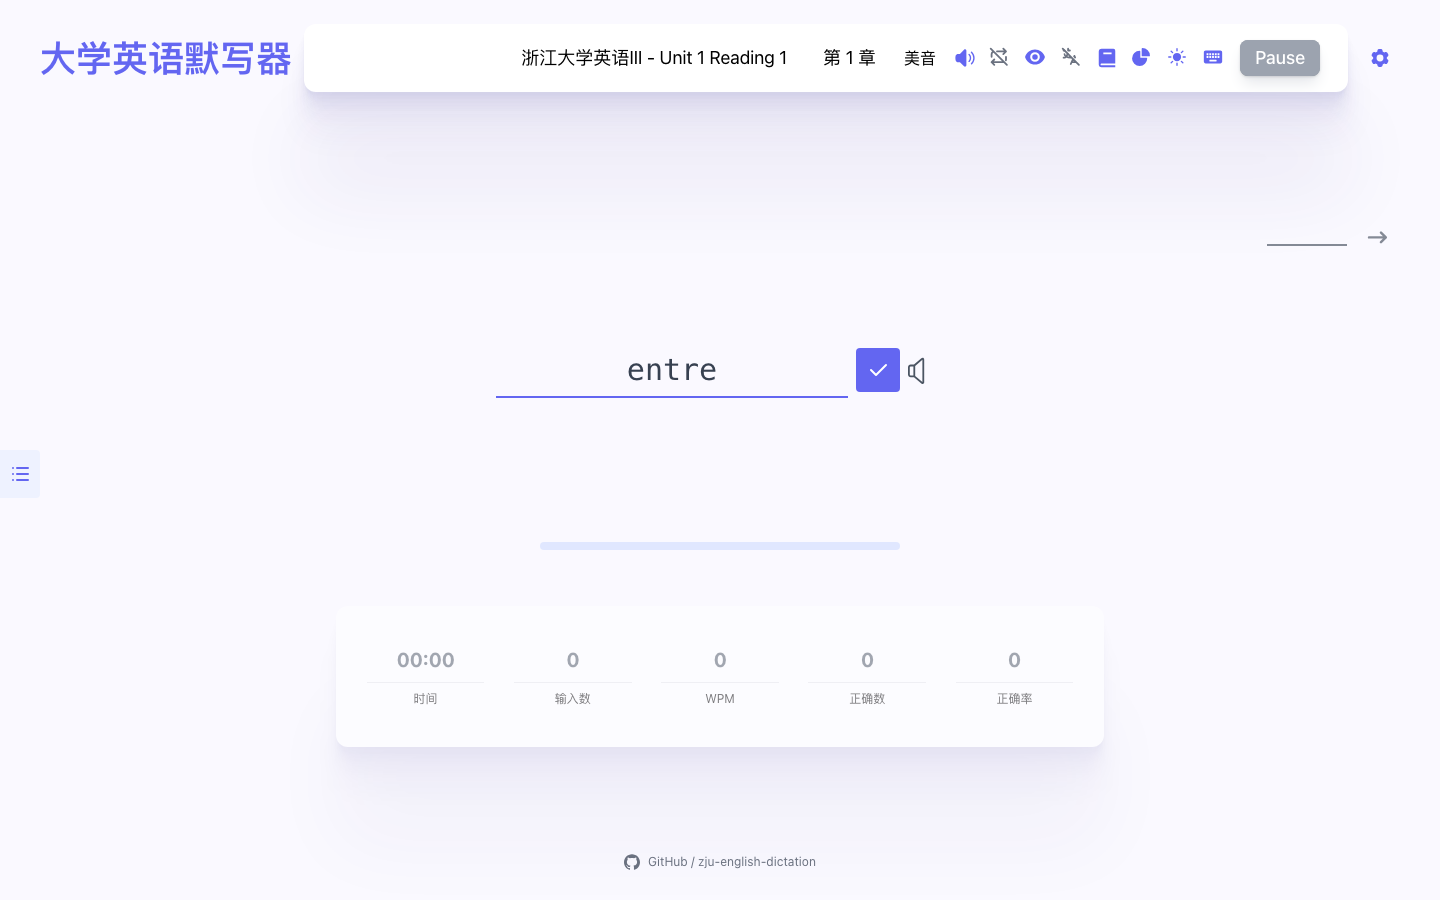
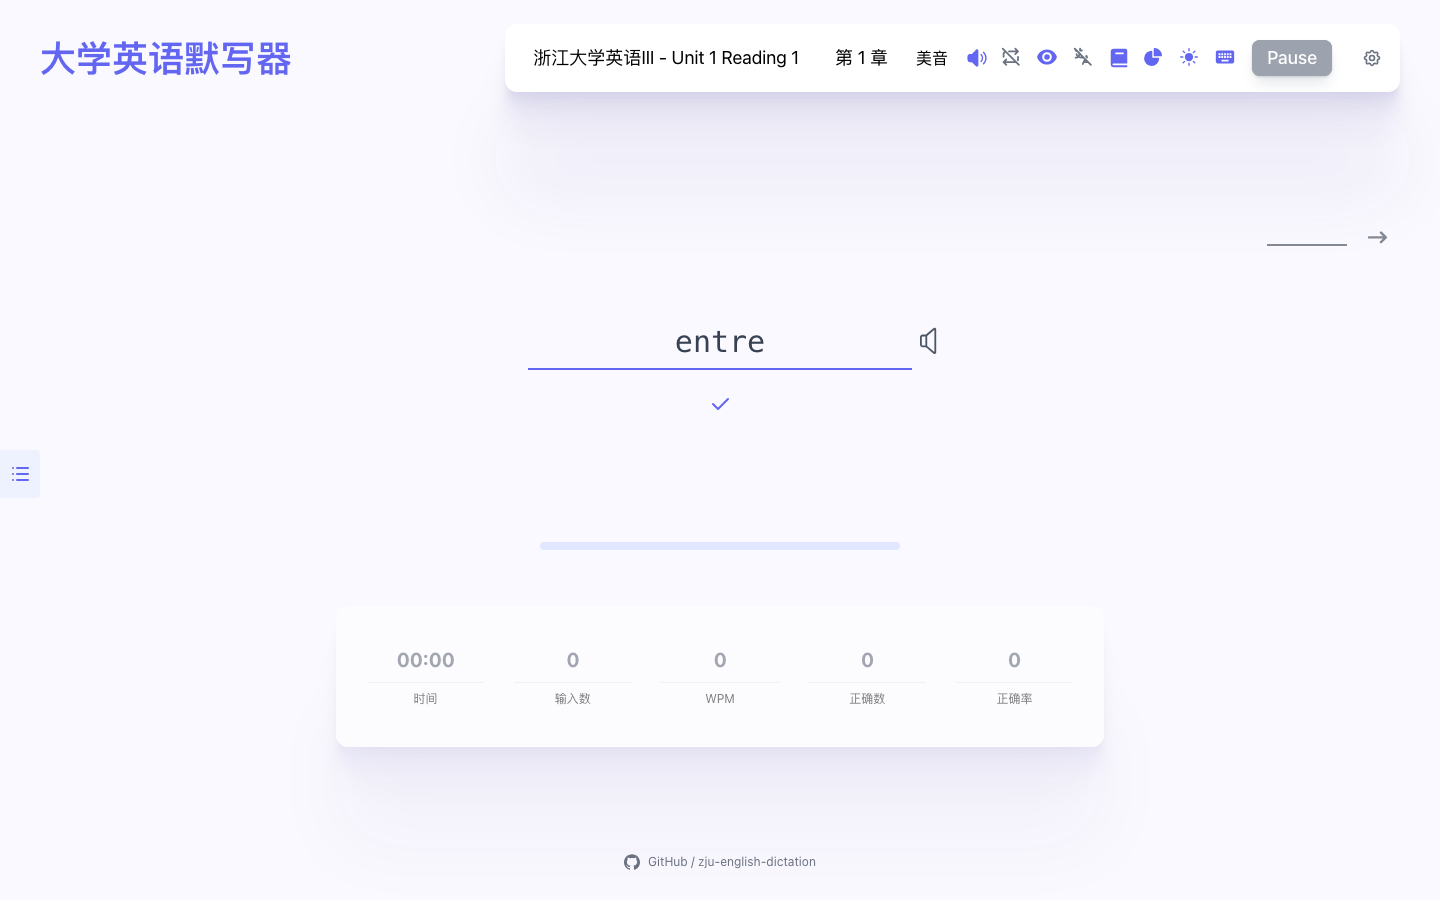
fix: unify inline dictation fields and center answer line

diff --git a/src/pages/Typing/components/WordPanel/components/WholeWordInput.tsx b/src/pages/Typing/components/WordPanel/components/WholeWordInput.tsx
@@ -1,5 +1,9 @@
+import style from './Word/index.module.css'
 import { TypingContext, TypingStateActionType } from '@/pages/Typing/store'
+import { fontSizeConfigAtom } from '@/store'
 import classNames from 'classnames'
+import { useAtomValue } from 'jotai'
+import type { CSSProperties, ReactNode } from 'react'
 import { useContext, useEffect, useRef } from 'react'
 import IconCheck from '~icons/tabler/check'
 
@@ -9,7 +13,8 @@ export default function WholeWordInput({
   onSubmit,
   isFinished,
   hasWrong,
-  inline = false,
+  prompt,
+  pronunciation,
   revealedAnswer,
 }: {
   value: string
@@ -17,17 +22,21 @@ export default function WholeWordInput({
   onSubmit: () => void
   isFinished: boolean
   hasWrong: boolean
-  inline?: boolean
+  prompt?: string
+  pronunciation?: ReactNode
   revealedAnswer?: string
 }) {
   // eslint-disable-next-line @typescript-eslint/no-non-null-assertion
   const { state, dispatch } = useContext(TypingContext)!
-  const inputRef = useRef<HTMLInputElement>(null)
+  const inputRef = useRef<HTMLInputElement | HTMLTextAreaElement | null>(null)
   const isComposing = useRef(false)
+  const fontSizeConfig = useAtomValue(fontSizeConfigAtom)
+  const isLengthHidden = prompt === undefined
+  const AnswerField = isLengthHidden ? 'input' : 'textarea'
 
   useEffect(() => {
     inputRef.current?.setAttribute('enterkeyhint', 'done')
-  }, [])
+  }, [isLengthHidden])
 
   useEffect(() => {
     if (!state.isTyping) inputRef.current?.blur()
@@ -35,17 +44,34 @@ export default function WholeWordInput({
 
   return (
     <form
-      className={inline ? 'relative w-full min-w-0' : 'mx-auto mt-4 w-full max-w-sm'}
+      className="relative w-full min-w-0"
       onSubmit={(event) => {
         event.preventDefault()
         if (!isComposing.current) onSubmit()
       }}
     >
-      <div className="flex items-center gap-2">
-        <div aria-label={inline ? '单词长度已隐藏' : undefined} className={classNames('relative min-w-0 flex-1', inline && 'min-h-[56px]')}>
-          <input
-            type="text"
-            ref={inputRef}
+      <div
+        className={classNames('relative mx-auto max-w-full font-mono', isLengthHidden ? 'w-full max-w-sm' : style.letter)}
+        style={
+          isLengthHidden
+            ? undefined
+            : ({
+                width: `calc(${Math.max(prompt.length, 1)}ch + 8px)`,
+                '--word-font-size': `${fontSizeConfig.foreignFont}px`,
+              } as CSSProperties)
+        }
+      >
+        <div
+          aria-label={isLengthHidden ? '单词长度已隐藏' : '字母格输入区'}
+          className="relative min-h-[56px]"
+          style={isLengthHidden ? undefined : { minHeight: 'max(56px, calc(1.5em + 16px))' }}
+        >
+          <AnswerField
+            type={isLengthHidden ? 'text' : undefined}
+            rows={isLengthHidden ? undefined : 1}
+            ref={(element: HTMLInputElement | HTMLTextAreaElement | null) => {
+              inputRef.current = element
+            }}
             id="typing-mobile-input"
             value={value}
             onChange={(event) => onChange(event.target.value.replace(/[\r\n]/g, ''))}
@@ -71,13 +97,12 @@ export default function WholeWordInput({
             autoCorrect="off"
             autoComplete="off"
             spellCheck={false}
-            placeholder={inline ? undefined : '输入英文'}
             style={revealedAnswer !== undefined ? { color: 'transparent', caretColor: 'transparent' } : undefined}
             className={classNames(
-              'z-20 block w-full min-w-0 outline-none',
-              inline
-                ? 'absolute inset-0 h-full rounded-none border-0 border-b-2 border-gray-400 bg-transparent px-1 py-2 text-center font-mono text-2xl shadow-none focus:border-indigo-500 focus:ring-0 dark:border-gray-500 sm:text-3xl'
-                : 'relative h-12 rounded-lg border border-gray-300 bg-white px-3 py-3 text-base leading-6 focus:border-indigo-500 focus:ring-2 focus:ring-indigo-200 dark:border-gray-600 dark:bg-gray-800',
+              'absolute inset-0 z-20 block h-full w-full min-w-0 rounded-none border-0 bg-transparent px-1 py-2 font-mono leading-normal shadow-none outline-none focus:ring-0',
+              isLengthHidden
+                ? 'border-b-2 border-gray-400 text-center text-2xl focus:border-indigo-500 dark:border-gray-500 sm:text-3xl'
+                : `${style.letter} resize-none overflow-hidden whitespace-pre-wrap break-all text-left`,
               hasWrong
                 ? 'text-red-600 dark:text-red-400'
                 : isFinished
@@ -85,6 +110,30 @@ export default function WholeWordInput({
                 : 'text-gray-700 dark:text-gray-200',
             )}
           />
+          {!isLengthHidden && revealedAnswer === undefined && (
+            <span
+              aria-hidden="true"
+              className="pointer-events-none relative block px-1 py-2 leading-normal text-gray-600 dark:text-gray-200"
+            >
+              <span className="block whitespace-pre-wrap break-all">
+                {(value + prompt.slice(value.length)).split('').map((letter, index) => (
+                  <span
+                    key={index}
+                    className={classNames(
+                      'relative',
+                      letter === '_' &&
+                        'text-transparent after:absolute after:bottom-0 after:left-[9%] after:right-[9%] after:border-b-[0.08em] after:border-gray-600 dark:after:border-gray-200',
+                    )}
+                    style={{
+                      visibility: index < value.length ? 'hidden' : undefined,
+                    }}
+                  >
+                    {letter}
+                  </span>
+                ))}
+              </span>
+            </span>
+          )}
           {revealedAnswer !== undefined && (
             <span
               aria-hidden="true"
@@ -97,6 +146,9 @@ export default function WholeWordInput({
             </span>
           )}
         </div>
+        {pronunciation && <div className="absolute left-full top-2 ml-2 h-10 w-10">{pronunciation}</div>}
+      </div>
+      <div className="mt-3 flex justify-center">
         <button
           type="submit"
           aria-label="提交答案"
@@ -106,13 +158,9 @@ export default function WholeWordInput({
             // Keep the mobile keyboard open while tapping Submit.
             if (event.button === 0) event.preventDefault()
           }}
-          className={classNames(
-            'flex shrink-0 items-center justify-center rounded bg-indigo-500 text-white hover:bg-indigo-600 disabled:opacity-40',
-            inline ? 'h-11 w-11 text-xl' : 'h-12 gap-1 px-3 text-sm',
-          )}
+          className="flex h-11 w-11 shrink-0 items-center justify-center rounded text-xl text-indigo-500 hover:bg-indigo-50 disabled:opacity-40 dark:hover:bg-gray-800"
         >
           <IconCheck aria-hidden="true" />
-          {!inline && '提交'}
         </button>
       </div>
       <p id="word-answer-status" role="status" className="min-h-[24px] pt-1 text-center text-sm text-red-600 dark:text-red-400">

diff --git a/src/pages/Typing/components/WordPanel/components/Word/index.tsx b/src/pages/Typing/components/WordPanel/components/Word/index.tsx
@@ -7,7 +7,6 @@ import { TipAlert } from './TipAlert'
 import style from './index.module.css'
 import { initialWordState } from './type'
 import type { WordState } from './type'
-import Tooltip from '@/components/Tooltip'
 import type { WordPronunciationIconRef } from '@/components/WordPronunciationIcon'
 import { WordPronunciationIcon } from '@/components/WordPronunciationIcon'
 import { EXPLICIT_SPACE } from '@/constants'
@@ -345,6 +344,16 @@ export default function WordComponent({
 
   const isLengthHidden = wordDictationConfig.isOpen && hideWordLength
   const isAnswerRevealed = wordState.isFinished || (isShowAnswerOnHover && isHoveringWord)
+  const pronunciation = pronunciationIsOpen ? (
+    <div
+      title={`快捷键${CTRL} + J`}
+      onPointerDown={(event) => {
+        if (event.button === 0) event.preventDefault()
+      }}
+    >
+      <WordPronunciationIcon word={word} lang={currentLanguage} ref={wordPronunciationIconRef} className="h-9 w-9" />
+    </div>
+  ) : undefined
 
   return (
     <>
@@ -354,21 +363,27 @@ export default function WordComponent({
       >
         {['romaji', 'hapin'].includes(currentLanguage) && word.notation && <Notation notation={word.notation} />}
         <div
-          className={`tooltip-info relative flex max-w-full items-center gap-2 whitespace-normal bg-transparent p-0 leading-normal shadow-none dark:bg-transparent ${
-            isLengthHidden ? 'w-full max-w-md' : wordDictationConfig.isOpen ? 'tooltip' : ''
-          }`}
+          className="tooltip-info relative w-full max-w-xl whitespace-normal bg-transparent px-12 leading-normal shadow-none dark:bg-transparent"
           data-tip="按 Tab 快捷键显示完整单词"
         >
           <div
-            onMouseEnter={() => !isLengthHidden && window.matchMedia('(hover: hover)').matches && handleHoverWord(true)}
+            onMouseEnter={() => !wholeWordMode && !isLengthHidden && window.matchMedia('(hover: hover)').matches && handleHoverWord(true)}
             onMouseLeave={() => handleHoverWord(false)}
-            className={`flex min-w-0 flex-wrap items-center ${isTextSelectable && 'select-all'} justify-center ${
-              isLengthHidden ? 'flex-1' : ''
+            className={`relative flex min-w-0 flex-wrap items-center justify-center ${
+              isTextSelectable && !wholeWordMode ? 'select-all' : ''
             } ${!wholeWordMode && wordState.hasWrong ? style.wrong : ''}`}
           >
-            {isLengthHidden && wholeWordMode ? (
+            {wholeWordMode ? (
               <WholeWordInput
-                inline
+                prompt={
+                  isLengthHidden
+                    ? undefined
+                    : wordState.displayWord
+                        .split('')
+                        .map((letter, index) => (getLetterVisible(index) ? letter : '_'))
+                        .join('')
+                }
+                pronunciation={pronunciation}
                 value={wordState.inputWord.replaceAll(EXPLICIT_SPACE, ' ')}
                 revealedAnswer={isAnswerRevealed ? wordState.displayWord.replaceAll(EXPLICIT_SPACE, ' ') : undefined}
                 onChange={replaceInput}
@@ -376,43 +391,28 @@ export default function WordComponent({
                 isFinished={wordState.isFinished}
                 hasWrong={wordState.hasWrong}
               />
-            ) : isLengthHidden ? (
+            ) : (
               <div
-                aria-label="单词长度已隐藏"
-                className="relative flex min-h-[56px] w-full flex-wrap items-center justify-center border-b-2 border-gray-400 focus-within:border-indigo-500"
+                aria-label={isLengthHidden ? '单词长度已隐藏' : '字母格输入区'}
+                className={`relative flex min-h-[56px] max-w-full flex-wrap items-center justify-center ${
+                  isLengthHidden ? 'w-full max-w-sm border-b-2 border-gray-400 focus-within:border-indigo-500' : ''
+                }`}
               >
-                {(isAnswerRevealed ? wordState.displayWord : wordState.inputWord).split('').map((letter, index) => (
-                  <Letter key={index} letter={letter} state={wordState.hasWrong ? 'wrong' : 'correct'} />
+                {(isLengthHidden && !isAnswerRevealed ? wordState.inputWord : wordState.displayWord).split('').map((letter, index) => (
+                  <Letter
+                    key={index}
+                    letter={letter}
+                    visible={isLengthHidden || getLetterVisible(index)}
+                    state={isLengthHidden ? (wordState.hasWrong ? 'wrong' : 'correct') : wordState.letterStates[index]}
+                  />
                 ))}
                 <InputHandler updateInput={updateInput} inline />
+                {pronunciation && <div className="absolute left-full top-2 ml-2 h-10 w-10">{pronunciation}</div>}
               </div>
-            ) : (
-              wordState.displayWord.split('').map((t, index) => {
-                return <Letter key={`${index}-${t}`} letter={t} visible={getLetterVisible(index)} state={wordState.letterStates[index]} />
-              })
             )}
           </div>
-          {pronunciationIsOpen && (
-            <div className={`h-9 w-9 shrink-0 ${isLengthHidden ? 'mt-2.5 self-start' : ''}`}>
-              <Tooltip content={`快捷键${CTRL} + J`}>
-                <WordPronunciationIcon word={word} lang={currentLanguage} ref={wordPronunciationIconRef} className="h-full w-full" />
-              </Tooltip>
-            </div>
-          )}
         </div>
       </div>
-      {!isLengthHidden &&
-        (wholeWordMode ? (
-          <WholeWordInput
-            value={wordState.inputWord.replaceAll(EXPLICIT_SPACE, ' ')}
-            onChange={replaceInput}
-            onSubmit={submitWord}
-            isFinished={wordState.isFinished}
-            hasWrong={wordState.hasWrong}
-          />
-        ) : (
-          <InputHandler updateInput={updateInput} />
-        ))}
       <TipAlert className="fixed bottom-10 right-3" show={showTipAlert} setShow={setShowTipAlert} />
     </>
   )

diff --git a/src/components/Header/index.tsx b/src/components/Header/index.tsx
@@ -4,25 +4,19 @@ import { NavLink } from 'react-router-dom'
 
 const Header: React.FC<PropsWithChildren<{ actions?: ReactNode }>> = ({ children, actions }) => {
   return (
-    <header className="container z-20 mx-auto w-full px-3 py-3 sm:px-6 sm:py-5 lg:px-10 lg:py-6">
-      <div
-        className={
-          actions
-            ? 'grid w-full grid-cols-[minmax(0,1fr)_auto] items-center gap-3 lg:grid-cols-[auto_minmax(0,1fr)_auto]'
-            : 'flex w-full flex-col items-stretch justify-between gap-3 lg:flex-row lg:items-center'
-        }
-      >
+    <header className="container relative z-30 mx-auto w-full px-3 py-3 sm:px-6 sm:py-5 lg:px-10 lg:py-6">
+      <div className="flex w-full flex-col items-stretch justify-between gap-3 lg:flex-row lg:items-center">
         <NavLink className="text-xl font-bold text-indigo-500 no-underline hover:no-underline sm:text-2xl lg:text-4xl" to="/">
           <h1>大学英语默写器</h1>
         </NavLink>
         <nav
-          className={`my-card on element flex w-full min-w-0 flex-wrap content-center items-center justify-center gap-2 rounded-xl bg-white p-2 transition-colors duration-300 dark:bg-gray-800 sm:gap-3 sm:p-3 lg:w-auto lg:justify-end lg:p-4 ${
-            actions ? 'col-span-2 row-start-2 lg:col-span-1 lg:col-start-2 lg:row-start-1' : ''
+          className={`my-card on element relative flex w-full min-w-0 flex-wrap content-center items-center justify-center gap-2 rounded-xl bg-white p-2 transition-colors duration-300 dark:bg-gray-800 sm:gap-3 sm:p-3 lg:w-auto lg:justify-end lg:p-4 ${
+            actions ? 'pr-14 sm:pr-14 lg:pr-14' : ''
           }`}
         >
           {children}
+          {actions && <div className="absolute right-2 top-1/2 flex -translate-y-1/2 items-center">{actions}</div>}
         </nav>
-        {actions && <div className="col-start-2 row-start-1 flex shrink-0 items-center justify-end lg:col-start-3">{actions}</div>}
       </div>
     </header>
   )

diff --git a/src/pages/Typing/components/Setting/index.tsx b/src/pages/Typing/components/Setting/index.tsx
@@ -9,12 +9,12 @@ import { acknowledgeCurrentRelease, currentReleaseVersion, hasSeenCurrentRelease
 import { Dialog, Tab, Transition } from '@headlessui/react'
 import classNames from 'classnames'
 import { Fragment, useContext, useEffect, useLayoutEffect, useRef, useState } from 'react'
-import IconCog6Tooth from '~icons/heroicons/cog-6-tooth-solid'
 import IconEye from '~icons/heroicons/eye-solid'
 import IconAdjustmentsHorizontal from '~icons/tabler/adjustments-horizontal'
 import IconDatabaseCog from '~icons/tabler/database-cog'
 import IconEar from '~icons/tabler/ear'
 import IconLanguage from '~icons/tabler/language'
+import IconSettings from '~icons/tabler/settings'
 import IconX from '~icons/tabler/x'
 
 const tabs = [
@@ -79,13 +79,13 @@ export default function Setting() {
       <button
         type="button"
         onClick={openModal}
-        className={`flex h-10 w-10 shrink-0 items-center justify-center rounded-lg text-xl text-indigo-500 transition-colors hover:bg-indigo-100 focus-visible:outline focus-visible:outline-2 focus-visible:outline-indigo-500 dark:hover:bg-gray-700 ${
-          isOpen ? 'bg-indigo-100 dark:bg-gray-700' : ''
+        className={`flex h-10 w-10 shrink-0 items-center justify-center rounded text-xl text-gray-500 transition-colors hover:bg-gray-100 hover:text-indigo-500 focus-visible:outline focus-visible:outline-2 focus-visible:outline-indigo-500 dark:text-gray-400 dark:hover:bg-gray-700 ${
+          isOpen ? 'bg-gray-100 dark:bg-gray-700' : ''
         }`}
         title="打开设置对话框"
         aria-label="打开设置对话框"
       >
-        <IconCog6Tooth className="icon" />
+        <IconSettings className="h-5 w-5" />
       </button>
 
       <Transition appear show={isOpen} as={Fragment}>

diff --git a/src/resources/releases.ts b/src/resources/releases.ts
@@ -28,8 +28,12 @@ export function acknowledgeCurrentRelease() {
 }
 
 export const currentReleaseNotes = [
-  { title: '长横线直接输入', description: '开启「隐藏字母数」后，直接点击横线输入，不再另设填写框；长答案在行内滚动。' },
-  { title: '隐藏字母数', description: '横线长度固定，不再用格数提示单词长度。' },
+  { title: '字母格也能直接输入', description: '默认保留字母格，直接点击单词位置填写；字母格和长横线都不再有下方的独立输入框。' },
+  {
+    title: '长横线居中',
+    description: '「隐藏字母数」默认关闭；开启后显示居中的固定长横线，发音按钮在右侧，不再用格数提示单词长度。已有选择会保留。',
+  },
+  { title: '设置融入工具栏', description: '设置齿轮收进顶部工具栏右侧，点击进入「默写设置」即可切换两种显示方式。' },
   { title: '整词提交后判定', description: '输入完成后按 Enter 或点提交，提交前可修改答案。' },
   { title: '释义跨章保持', description: '切换章节后保留中文释义的显示或隐藏状态。' },
   { title: '释义附带词性', description: '新工科英语按原文补齐词性；大学英语 III、IV 补充有可靠资料的条目。' },

diff --git a/README.md b/README.md
@@ -1,6 +1,6 @@
 # 🎧 大学英语默写器
 
-当前版本：**v0.3.1** · 长横线直接输入、右上角设置与首次更新提醒。
+当前版本：**v0.3.2** · 字母格和长横线都能直接输入，没有下方填写框。
 
 **像课堂听写一样：听到单词，默写英文，回忆中文，再核对释义。**
 
@@ -12,10 +12,11 @@
 
 [🎧 怎么听写](#dictation) · [📸 看看页面](#preview) · [📚 找找词库](#dictionaries) · [💻 本地运行](#local-run) · [⭐ 给我一颗 Star](#star)
 
-## ✨ v0.3.1 更新了什么？
+## ✨ v0.3.2 更新了什么？
 
-- ✍ **直接在线上写**：开启「隐藏字母数」后，固定长横线本身就是输入区，不再另放一个填写框。点击横线即可输入，按 Enter 或点击右侧勾选按钮提交。
-- ⚙ **设置在右上角**：「默写设置」集中切换字母格 / 长横线、整词提交 / 逐字判定，电脑和手机都能找到。
+- ✍ **字母格也能直接写**：默认保留一格一格的字母位，开启「隐藏字母数」后才变成固定长横线。两种模式都直接在单词位置输入，不再另放填写框，按 Enter 或点击勾选按钮提交。
+- 📏 **横线自己站中间**：长横线单独居中，发音按钮放在右侧，不再把输入区域挤偏。
+- ⚙ **设置收进工具栏**：顶部工具栏右侧的小齿轮里，可以切换字母格 / 长横线、整词提交 / 逐字判定，电脑和手机都能找到。
 - 📣 **新版初次见面打个招呼**：首次打开新版会弹出更新提示，关闭后当前浏览器不再重复提醒；也能从设置里的「本次更新」重新查看。
 
 ### v0.3.0 的更新也都保留啦
@@ -52,7 +53,7 @@
 
 1. 点击顶部词库名称，选择英语 III / IV 或新工科英语对应的单元、模块及章节。
 2. 默写模式默认开启，并选择「全部隐藏」，中文释义默认关闭。需要时可在「默写模式」中切换或关闭；纯听音练习时，可在发音设置中关闭音标。
-3. 点击 **Start**，听发音后输入英文，同时回忆中文意思，按 **Enter** 或点击提交按钮核对。开启「隐藏字母数」时直接点击长横线输入，手机也使用同一流程。
+3. 点击 **Start**，听发音后直接在字母格或长横线上输入英文，同时回忆中文意思，按 **Enter** 或点击勾选按钮核对。手机也使用同一流程，没有额外填写框。
 4. 答对后核对中文，继续下一词。没有听清时，点击单词旁的扬声器再次播放。
 
 🔎 小提醒：首次打开时，英文默认隐藏；已有的手动设置会保留，关闭默写后刷新也不会强制重新开启。发音需要网络，移动浏览器可能要求先点击页面才能播放声音。
